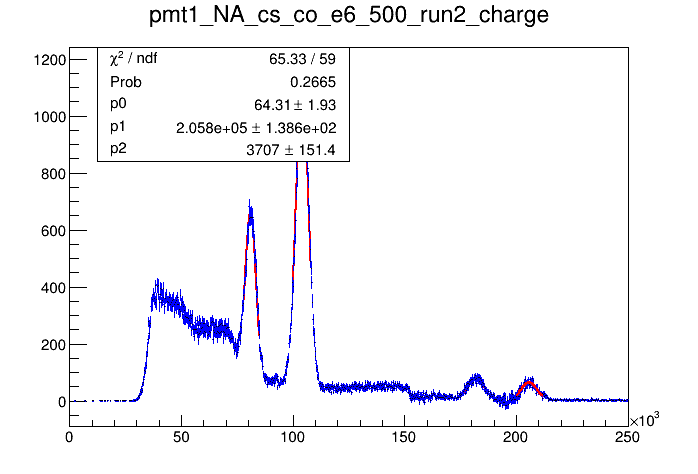
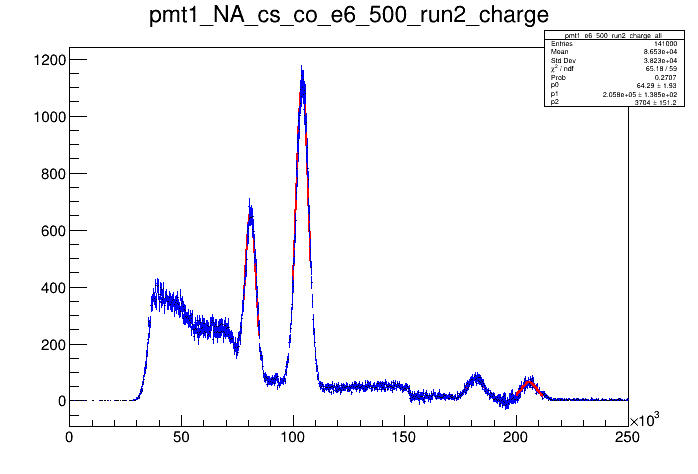
real_time

diff --git a/real_time_calibration.cpp b/real_time_calibration.cpp
@@ -104,6 +104,35 @@ vector <TH1F*> make_histo(string name, float charge_min, float charge_max, float
     return histos;
 }
 
+vector<float> fit_gaus_NAb (TH1F* histo, vector<float> ranges, string name, string type){
+    
+    cout << endl;
+    cout << "__________________________ Gaussian fit: " << name << type << " __________________________"<<endl; 
+    cout << endl;
+
+    TF1 *gaus1 = new TF1("gaus1","[0]*exp(-0.5*pow(((x-[1])/[2]),2))",ranges[6], ranges[7]);
+
+    gaus1->SetParameters(700, abs(ranges[6]+ranges[7])/2, abs(ranges[6]-ranges[7]));
+
+
+    TCanvas *c_NAb = new TCanvas(&(name + type +"_NAb")[0] ,&(name + type +"_NAb")[0]);
+
+    histo->Fit("gaus1","R", "SAME");
+    gaus1->Draw("SAME");
+    gStyle->SetOptFit(1111);
+    histo->Draw("SAME");
+
+    c_NAb->SaveAs(&("real_time_calibration/"+name + type +"_NAb.png")[0]);
+    c_NAb->Write();
+
+    vector<float> gaus_params;
+
+    gaus_params.push_back(gaus1->GetParameter(1));
+    gaus_params.push_back(gaus1->GetParError(1));
+
+    return gaus_params;
+}
+
 vector<float> fit_gaus (TH1F* histo_sub, vector<float> ranges, string name, string type){
     
     cout << endl;
@@ -112,13 +141,13 @@ vector<float> fit_gaus (TH1F* histo_sub, vector<float> ranges, string name, stri
 
     TF1 *gaus1 = new TF1("gaus1","[0]*exp(-0.5*pow(((x-[1])/[2]),2))",ranges[0], ranges[1]);
     TF1 *gaus2 = new TF1("gaus2","[0]*exp(-0.5*pow(((x-[1])/[2]),2))",ranges[2], ranges[3]);
-    TF1 *gaus3 = new TF1("gaus3","[0]*exp(-0.5*pow(((x-[1])/[2]),2))",ranges[7], ranges[8]);
-    TF1 *gaus4 = new TF1("gaus4","[0]*exp(-0.5*pow(((x-[1])/[2]),2))",ranges[9], ranges[10]);
+    TF1 *gaus3 = new TF1("gaus3","[0]*exp(-0.5*pow(((x-[1])/[2]),2))",ranges[8], ranges[9]);
+    TF1 *gaus4 = new TF1("gaus4","[0]*exp(-0.5*pow(((x-[1])/[2]),2))",ranges[10], ranges[11]);
 
     gaus1->SetParameters(700, abs(ranges[0]+ranges[1])/2, abs(ranges[0]-ranges[1]));
     gaus2->SetParameters(1000, abs(ranges[2]+ranges[3])/2, abs(ranges[2]-ranges[3]));
-    gaus3->SetParameters(100, abs(ranges[7]+ranges[8])/2, abs(ranges[7]-ranges[8]));
-    gaus4->SetParameters(100, abs(ranges[9]+ranges[10])/2, abs(ranges[9]-ranges[10]));
+    gaus3->SetParameters(100, abs(ranges[8]+ranges[9])/2, abs(ranges[8]-ranges[9]));
+    gaus4->SetParameters(100, abs(ranges[10]+ranges[11])/2, abs(ranges[10]-ranges[11]));
 
     TCanvas *c_sub = new TCanvas(&(name + type +"_sub")[0] ,&(name + type +"_sub")[0]);
 
@@ -153,11 +182,11 @@ vector<float> fit_gaus (TH1F* histo_sub, vector<float> ranges, string name, stri
     return gaus_params;
 }
 
-auto fit_lin(string name_final, string type, vector<float> gaus_params, TFile * outfile){
-    float x[3]={0.66, 1.17, 1.33};
-    float y[sizeof(x)/sizeof(x[0])]={gaus_params[2], gaus_params[4], gaus_params[6]};
-    float y_err[sizeof(x)/sizeof(x[0])] = {gaus_params[2]/100, gaus_params[4]/100, gaus_params[6]/100};
-    //float y_err[sizeof(x)/sizeof(x[0])] = {gaus_params[3], gaus_params[5], gaus_params[7]};
+auto fit_lin(string name_final, string type, vector<float> gaus_params, TFile * outfile, vector<float> gaus_param_NAb){
+    float x[4]={0.66, 1.17, 1.27, 1.33};
+    float y[sizeof(x)/sizeof(x[0])]={gaus_params[2], gaus_params[4],gaus_param_NAb[0],  gaus_params[6]};
+    //float y_err[sizeof(x)/sizeof(x[0])] = {gaus_params[2]/100, gaus_params[4]/100, gaus_params[6]/100};
+    float y_err[sizeof(x)/sizeof(x[0])] = {gaus_params[3], gaus_params[5],gaus_param_NAb[1], gaus_params[7]};
 
     cout << endl;
     cout << "__________________________ Linear fit: " << name_final << type << " __________________________"<<endl; 
@@ -194,7 +223,7 @@ auto fit_lin(string name_final, string type, vector<float> gaus_params, TFile * 
         diff[i] =y[i]-linear->Eval(x[i]);
         diff_norm[i]=diff[i]/y_err[i];
     }  
-    float one_array[sizeof(x)/sizeof(x[0])]={1,1,1};
+    float one_array[sizeof(x)/sizeof(x[0])]={1,1,1,1};
     
     TGraphErrors* gr2 = new TGraphErrors(sizeof(x)/sizeof(x[0]),x,diff_norm,nullptr,one_array);
     gStyle->SetStatY(0.9);
@@ -225,7 +254,7 @@ auto division(vector<double> off_set, vector<double> cal_factor, float peak, flo
 
 auto peak_energy(string name_final, string type, vector<vector<double>> lin_params, vector<float> gaus_params){
     vector<float> energy;
-    vector<float> x(division(lin_params[0], lin_params[1], gaus_params[0], /* gaus_params[1]*/gaus_params[0]/100));    
+    vector<float> x(division(lin_params[0], lin_params[1], gaus_params[0], gaus_params[1]/*gaus_params[0]/100)*/));    
     //vector<float> y(division(lin_params[0], lin_params[1], gaus_params[10], gaus_params[11]));
     energy.insert(energy.end(), x.begin(), x.end());
     //energy.insert(energy.end(), y.begin(), y.end());
@@ -246,13 +275,22 @@ void real_time_calibration(){
     TFile *outfile= new TFile("real_time_calibration/histograms_RealTimeCalibration_fit.root", "RECREATE");
     ofstream out_file("real_time_calibration/peak_energy.txt");
 
-    // primi due sono picco NA, poi picco cs, poi range da sottrare del cs e poi la posizione del picco del cs da sottrare
-    // poi il range del primo picco co e poi del secondo picco co
+    // primi due sono picco NA| poi picco cs| poi range da sottrare del cs |e poi il range del picco b del na da sottrarre|
+    // poi il range del primo picco co |e poi del secondo picco co | picco del na da sottrarre
     map <vector<string>, vector<float>> pair_names ={ 
         {{"pmt1_NA_cs_e6_500_run2", "pmt1_NA_cs_co_e6_500_run2"}, 
-            {78000, 85000, 100000, 108000, 150000, 210000, 195000, 176000, 187000, 200000, 212000}}, 
-            {{"pmt1_NA_cs_e6_100_run1", "pmt1_NA_cs_co_e6_100_run1"}, 
+            {78000, 85000, 100000, 108000, 150000, 210000, 190000, 204000, 176000, 187000, 200000, 212000, 195000}}, 
+        /*{{"pmt1_NA_cs_e6_100_run1", "pmt1_NA_cs_co_e6_100_run1"}, 
             {78000-2000, 85000-2000, 100000-2000, 108000-2000, 150000-2000, 210000-2000, 195000-2000, 176000-2000, 187000-2000, 200000-2000, 212000-2000}}
+        {{"pmt2_NA_cs_e6_100_run1", "pmt2_NA_cs_co_e6_100_run1"}, 
+            {69000, 76000, 90000, 108000-9000, 150000-9000, 210000-9000, 177000, 157000, 167000, 182000, 190000}},
+        {{"pmt2_NA_cs_e6_500_run2", "pmt2_NA_cs_co_e6_500_run2"}, 
+            {70000, 76000, 89000, 98000, 150000, 190000, 177000, 160000, 168000, 182000, 190000}}
+        {{"pmt2_NA_cs_e6_100_run1", "pmt2_NA_cs_co_e6_100_run1"}, 
+            {69000, 76000, 90000, 108000-9000, 150000-9000, 210000-9000, 177000, 157000, 167000, 182000, 190000}},
+        {{"pmt2_NA_cs_e6_500_run2", "pmt2_NA_cs_co_e6_500_run2"}, 
+            {70000, 76000, 89000, 98000, 150000, 190000, 177000, 160000, 168000, 182000, 190000}}*/
+
 
         /*{"pmt1_NA+cs_e6_100_run1", 
                         "pmt2_NA+cs_e6_100_run1",
@@ -280,6 +318,7 @@ void real_time_calibration(){
         string final = name_a.substr(10, name_a.size()-1);
         string name_final = pmt+final;
 
+        cout << "Processing: " << name_final << endl; 
 
         TH1F *histo_a = nullptr;
         f->GetObject(&(name_a + type)[0], histo_a);
@@ -304,9 +343,13 @@ void real_time_calibration(){
         cout<< int_cs_a/int_cs_b << endl;
 
         float y_rescale = (int_NA_a/int_NA_b + int_cs_a/int_cs_b )/2;
+        
+        auto gaus_param_NAb=fit_gaus_NAb(histo_a, ranges, name_final, type);
 
-        cout << "Processing: " << name_a << endl; 
-        histos=make_histo(name_a, ranges[4], ranges[5], y_rescale, ranges[6]);
+        histos=make_histo(name_a, ranges[4], ranges[5], y_rescale, gaus_param_NAb[0]);
+
+        auto gaus_param_NAb_clear=fit_gaus_NAb(histos[0], ranges, name_final, type);
+
 
         TH1F *histo_sub = (TH1F*)histo_b->Clone("histo_sub");
 
@@ -327,7 +370,7 @@ void real_time_calibration(){
 
         vector<float> gaus_params;
         gaus_params=fit_gaus(histo_sub, ranges, name_final, type);
-        auto lin_params = fit_lin(name_final, type, gaus_params, outfile);
+        auto lin_params = fit_lin(name_final, type, gaus_params, outfile, gaus_param_NAb_clear);
 
         vector<string> x= peak_energy(name_final, type, lin_params, gaus_params);
         energy.insert(energy.end(), x.begin(), x.end());

diff --git a/correlation_frequency.cpp b/correlation_frequency.cpp
@@ -117,20 +117,28 @@ void correlation_frequency (){
             coincidenze++;
         }
     }
+    out_file << "numero coincidenze:    "<< coincidenze << "\n";
     cout << coincidenze << endl;
+
     cout <<idx_ranges[0].size()<<endl;
+    out_file << "numero eventi nel picco pmt1:    "<<idx_ranges[0].size() << "\n";
     cout <<idx_ranges[1].size()<<endl;
+    out_file << "numero eventi nel picco pmt2:    "<<idx_ranges[1].size() << "\n";
 
     double time_tot= (time_e - time_b)*8*pow(10,-9);
     cout << time_tot << endl;
+    out_file << "tempo totale:    "<< time_tot << "\n";
 
     double freq_a=idx_ranges[0].size()/time_tot;
     double freq_b=idx_ranges[1].size()/time_tot;
-
     double coinc_casuali= freq_a*freq_b*2*pow(10,-9)*time_tot;
+
     cout << freq_a <<endl;
     cout << freq_b <<endl;
     cout << coinc_casuali <<endl;
+    out_file << "freq pmt1 nel picco:    "<< freq_a << "\n";
+    out_file << "freq pmt2 nel picco:    "<< freq_b << "\n";
+    out_file << "coincidenze casuali stimate:    "<< coinc_casuali << "\n";
 
 
 
